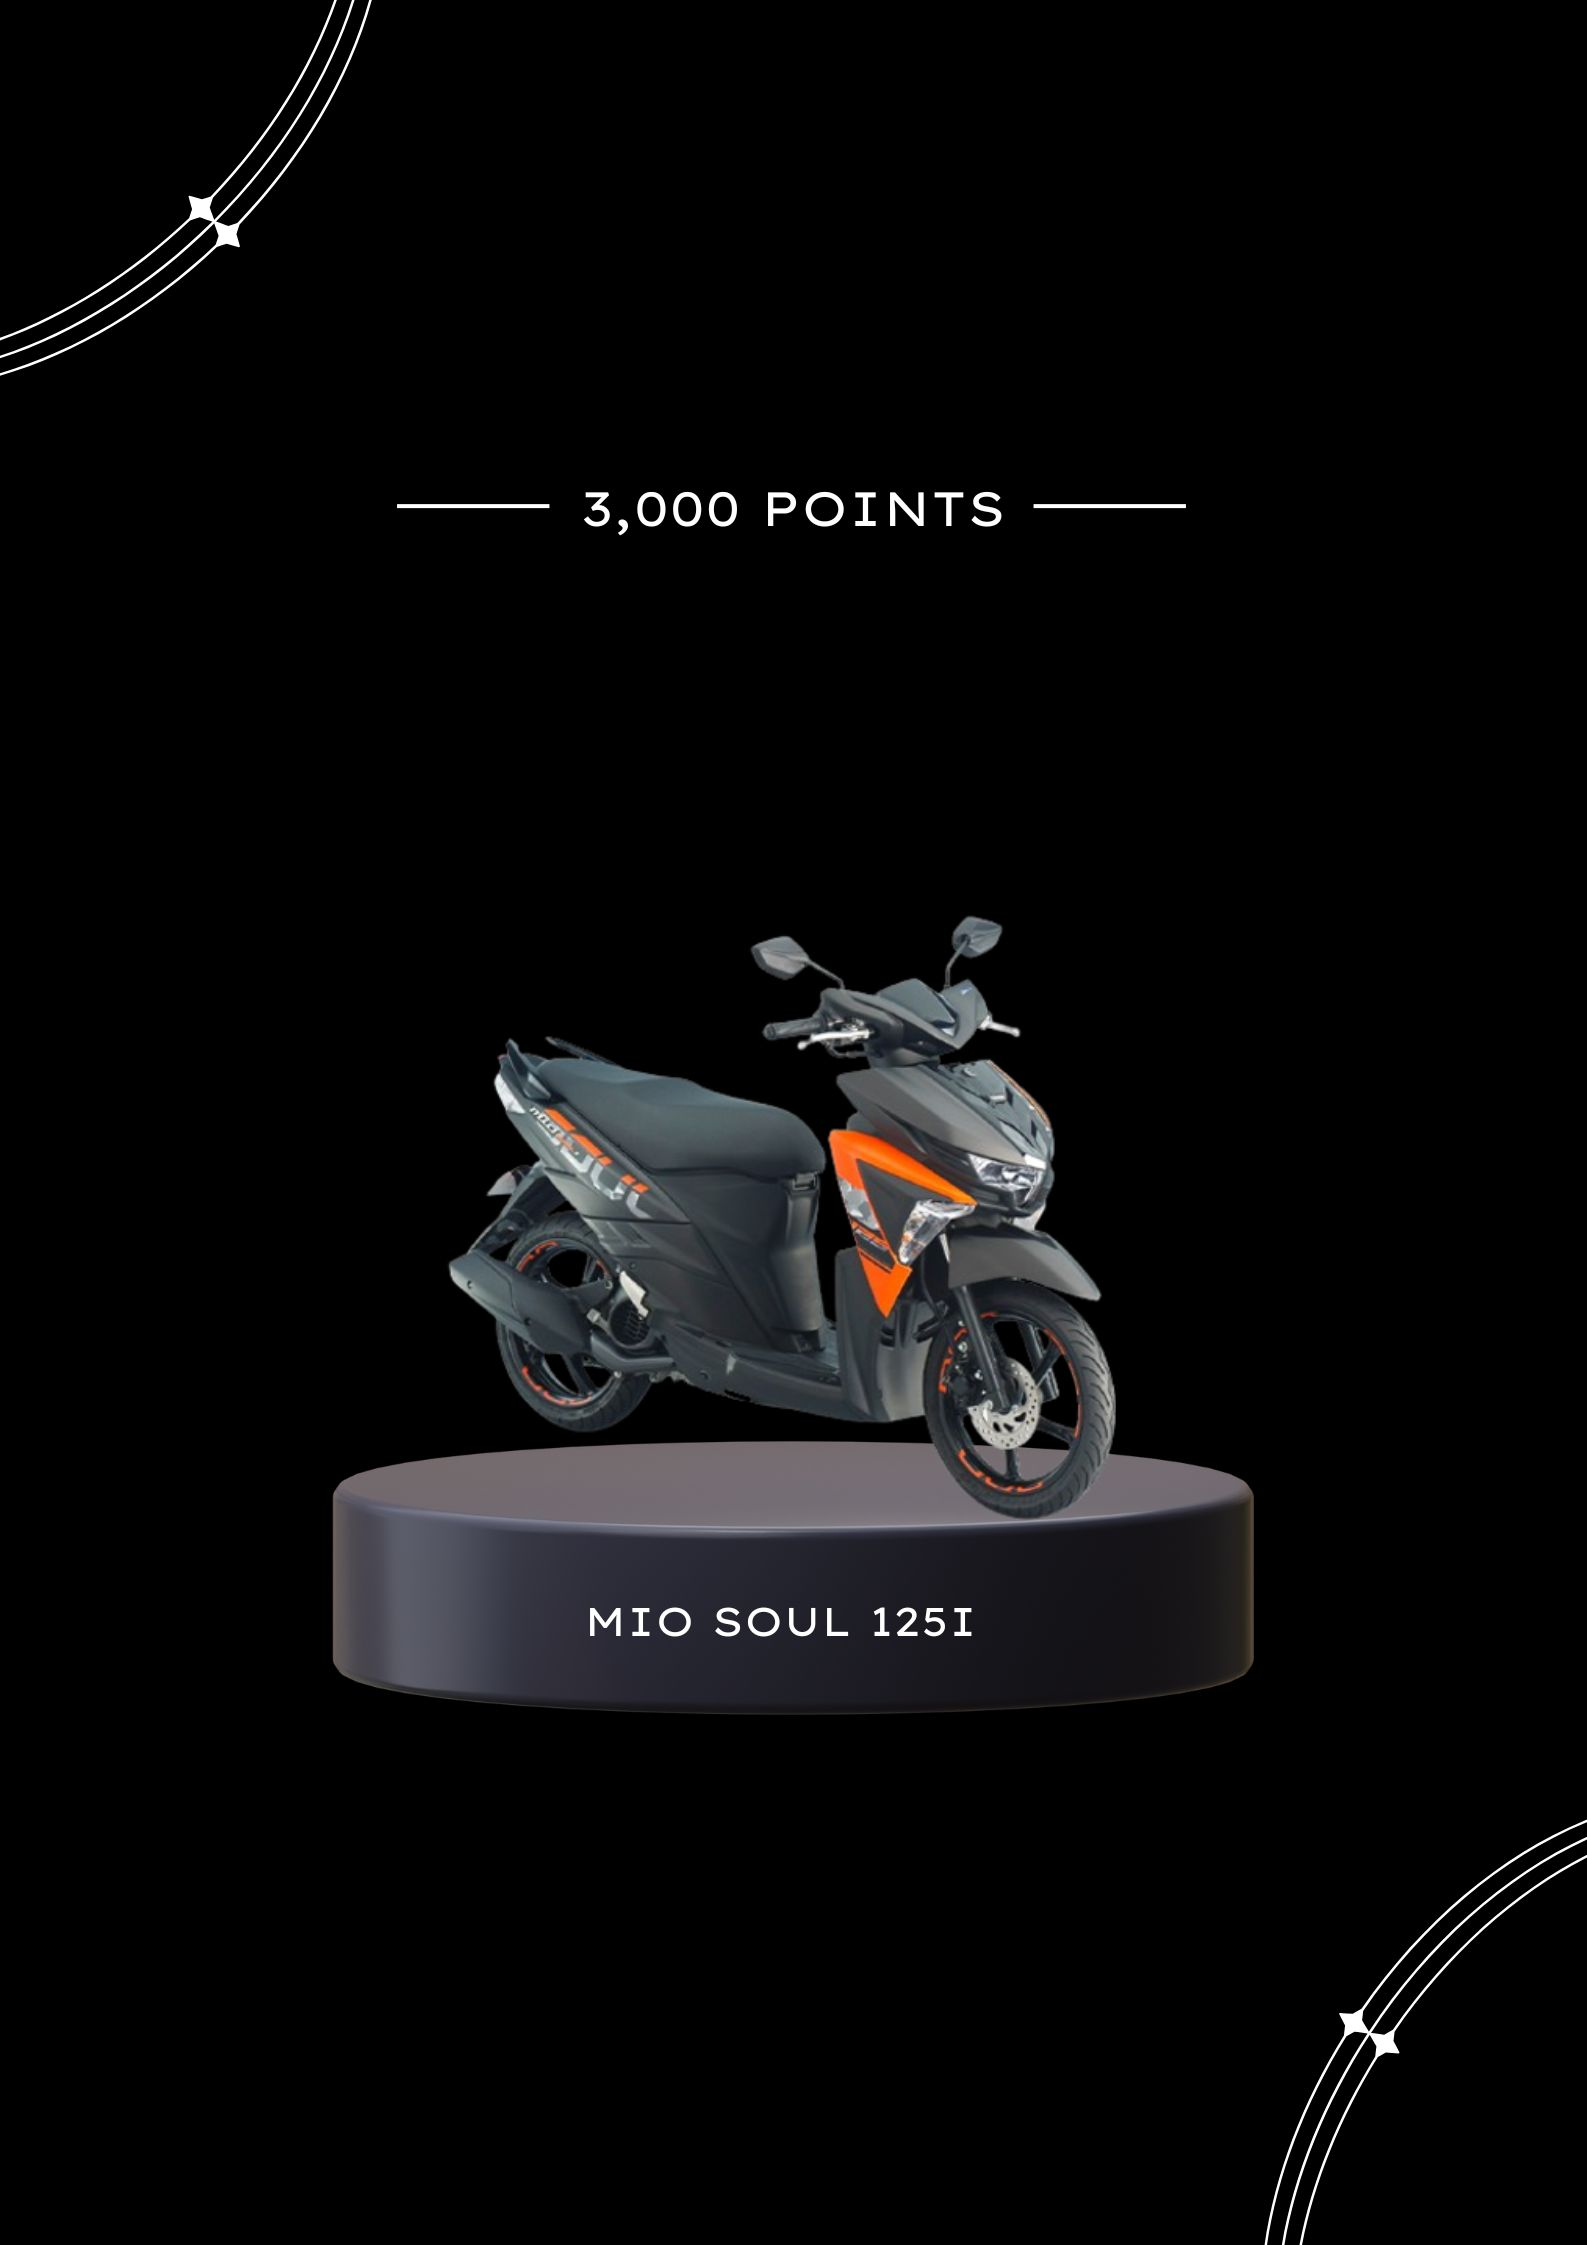
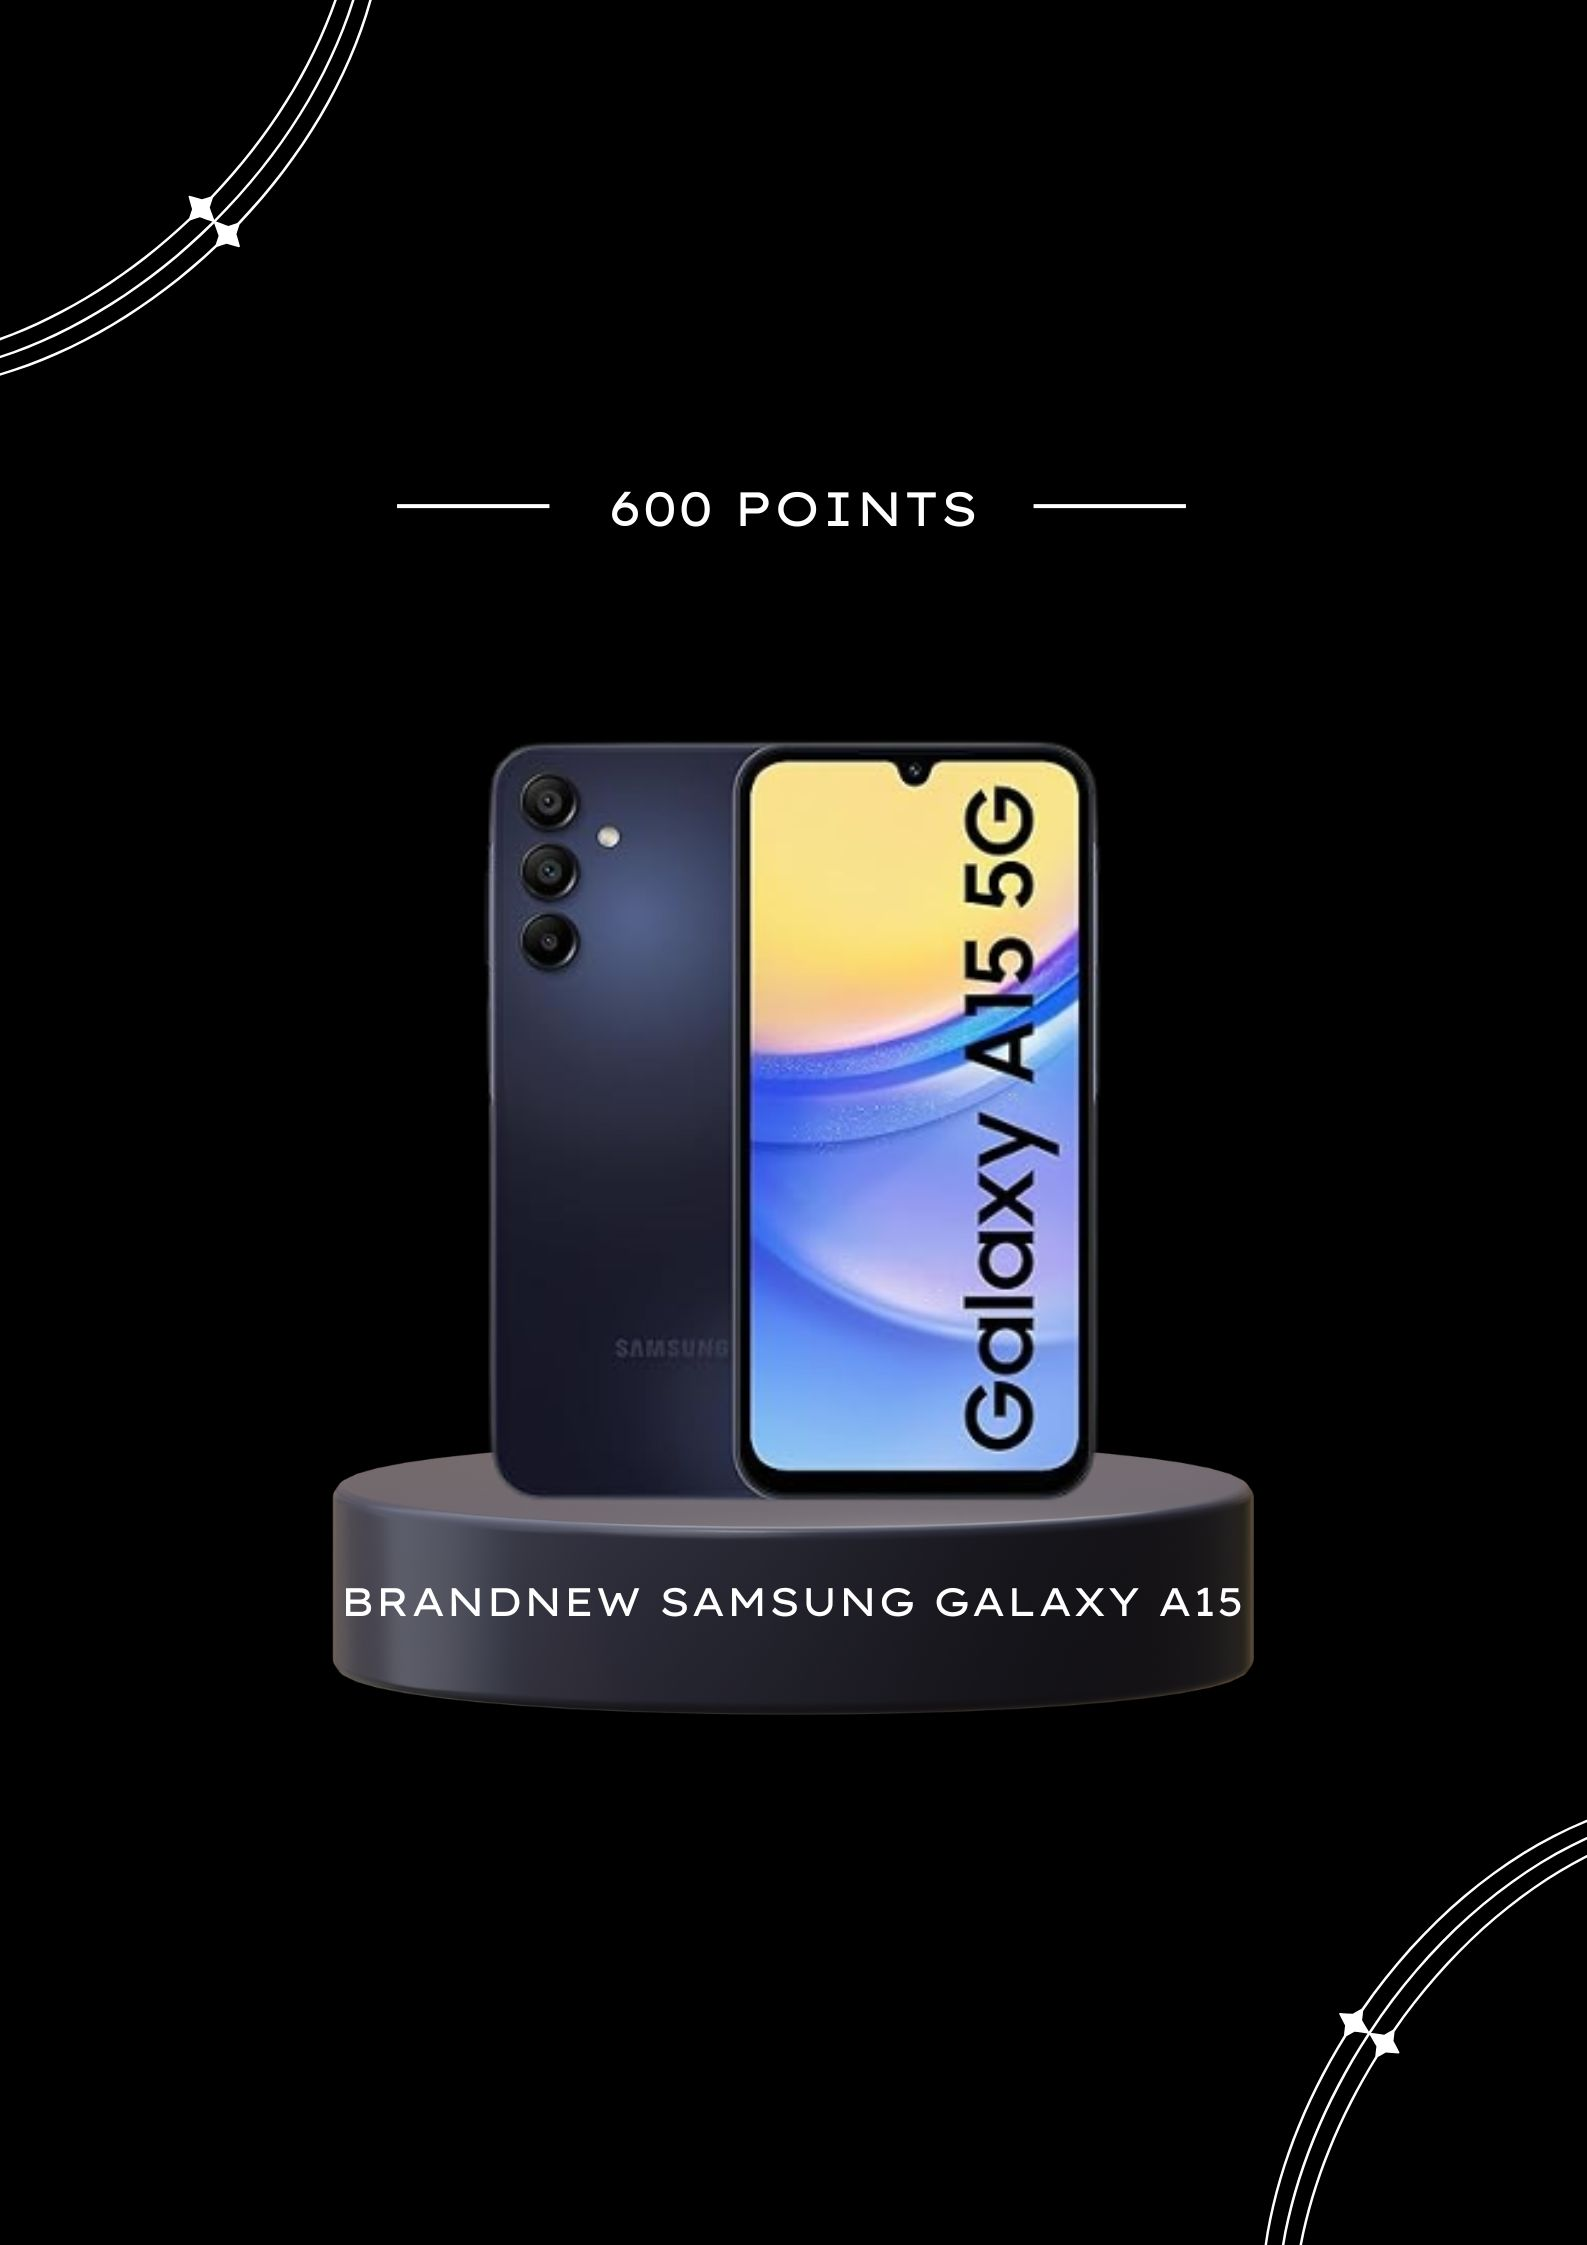
Updated presentation and items

Changed region(s): [[0.2161, 0.3118, 0.7101, 0.7483], [0.3705, 0.2183, 0.6484, 0.2494], [0.6793, 0.686, 0.7101, 0.7171]]

diff --git a/database/seeders/ItemSeeder.php b/database/seeders/ItemSeeder.php
@@ -14,26 +14,26 @@ class ItemSeeder extends Seeder
     {
         Item::create([
             'name' => '100 Pesos SM Gift Certificate',
-            'image' => 'items/9.jpg',
+            'image' => 'items/1.jpg',
             'description' => '100 Pesos SM Gift Certificate',
-            'points' => 8,
+            'points' => 10,
             'quantity' => 9999,
             'status' => 'active'
         ]);
 
         Item::create([
             'name' => '5 Kilos Ganador Rice',
-            'image' => 'items/1.jpg',
+            'image' => 'items/2.jpg',
             'description' => '5 Kilos Ganador Rice',
-            'points' => 25,
+            'points' => 30,
             'quantity' => 9999,
             'status' => 'active'
         ]);
 
         Item::create([
-            'name' => '800 Pesos SM Gift Certificate',
-            'image' => 'items/2.jpg',
-            'description' => '800 Pesos SM Gift Certificate',
+            'name' => '1k Pesos SM Gift Certificate',
+            'image' => 'items/3.jpg',
+            'description' => '1k Pesos SM Gift Certificate',
             'points' => 50,
             'quantity' => 9999,
             'status' => 'active'
@@ -41,43 +41,61 @@ class ItemSeeder extends Seeder
 
         Item::create([
             'name' => '25 Kls Ganador Rice',
-            'image' => 'items/3.jpg',
-            'description' => '25 Kls Ganador Rice',
-            'points' => 90,
-            'quantity' => 9999,
-            'status' => 'active'
-        ]);
-
-        Item::create([
-            'name' => 'Negosyo Package',
             'image' => 'items/4.jpg',
-            'description' => 'Negosyo Package worth of 12,600',
-            'points' => 250,
+            'description' => '25 Kls Ganador Rice',
+            'points' => 100,
             'quantity' => 9999,
             'status' => 'active'
         ]);
 
         Item::create([
-            'name' => 'Brand New Samsung A12',
+            'name' => 'Brandnew Samsung Galaxy A06',
             'image' => 'items/5.jpg',
-            'description' => 'Brand New Samsung A12',
-            'points' => 400,
+            'description' => 'Brandnew Samsung Galaxy A06',
+            'points' => 300,
+            'quantity' => 9999,
+            'status' => 'active'
+        ]);
+
+        Item::create([
+            'name' => 'Brandnew Huawei Nova Y72',
+            'image' => 'items/6.jpg',
+            'description' => 'Brandnew Huawei Nova Y72',
+            'points' => 450,
+            'quantity' => 9999,
+            'status' => 'active'
+        ]);
+
+        Item::create([
+            'name' => 'Brandnew Samsung Galaxy A15',
+            'image' => 'items/7.jpg',
+            'description' => 'Brandnew Samsung Galaxy A15',
+            'points' => 600,
+            'quantity' => 9999,
+            'status' => 'active'
+        ]);
+
+        Item::create([
+            'name' => 'Brandnew 10.2 inch Apple Ipad',
+            'image' => 'items/8.jpg',
+            'description' => 'Brandnew 10.2 inch Apple Ipad',
+            'points' => 800,
             'quantity' => 9999,
             'status' => 'active'
         ]);
 
         Item::create([
             'name' => 'Family Appliance Showcase',
-            'image' => 'items/6.jpg',
-            'description' => '30k worth of SM Appliances',
-            'points' => 1250,
+            'image' => 'items/9.jpg',
+            'description' => '25k worth of SM Appliances',
+            'points' => 1000,
             'quantity' => 9999,
             'status' => 'active'
         ]);
 
         Item::create([
             'name' => 'Brandnew Mio Soul 125i',
-            'image' => 'items/7.jpg',
+            'image' => 'items/10.jpg',
             'description' => 'Brandnew Mio Soul 125i',
             'points' => 3000,
             'quantity' => 9999,
@@ -85,10 +103,10 @@ class ItemSeeder extends Seeder
         ]);
 
         Item::create([
-            'name' => '150K Pesos Cash',
-            'image' => 'items/8.jpg',
-            'description' => '150K Pesos Cash',
-            'points' => 5000,
+            'name' => '100K Pesos Cash',
+            'image' => 'items/11.jpg',
+            'description' => '100K Pesos Cash',
+            'points' => 3500,
             'quantity' => 9999,
             'status' => 'active'
         ]);

diff --git a/resources/views/one-page.blade.php b/resources/views/one-page.blade.php
@@ -197,7 +197,7 @@
                 </div>
 
                 <div class="col-12 text-sm-start text-center wow fadeInLeft" data-wow-delay="300ms">
-                    <iframe src="https://1drv.ms/p/c/747b7c1b18875b83/IQREGkTcMy0bSanLs7eSXUtNAbJ5yYfN2RomSJuqTT_qX4I" width="100%"
+                    <iframe src="https://1drv.ms/p/c/747b7c1b18875b83/IQRvY0mQAXe3Q4ZOpbydWAmrAbe7bYAnM0hJCKfRgvWf9PY" width="100%"
                         height="500" frameborder="0" scrolling="no"></iframe>
                 </div>
             </div>
